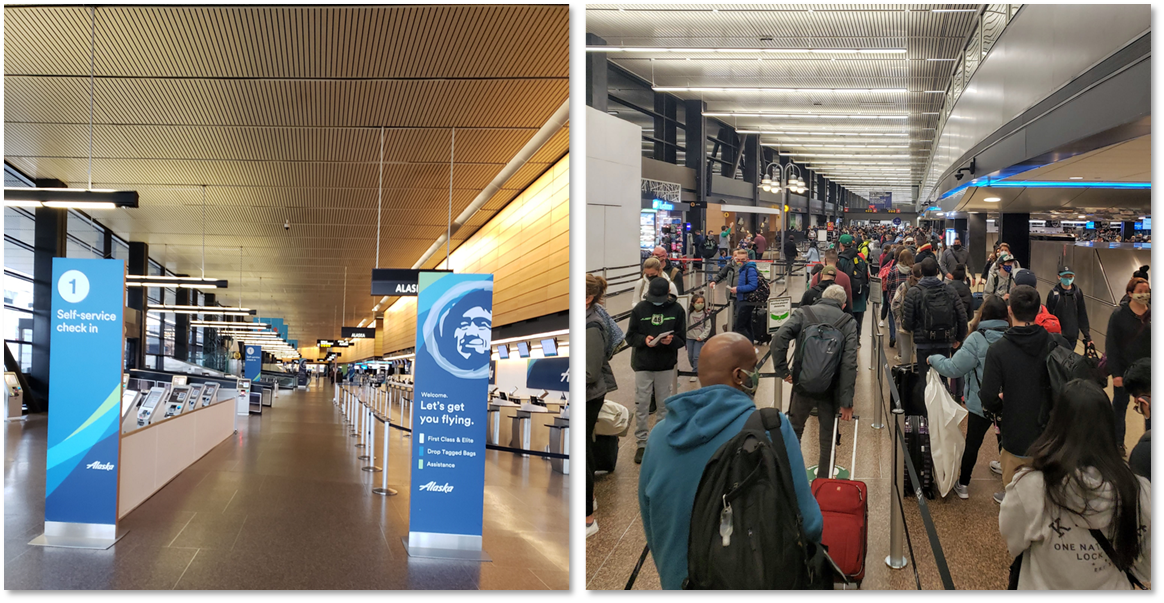
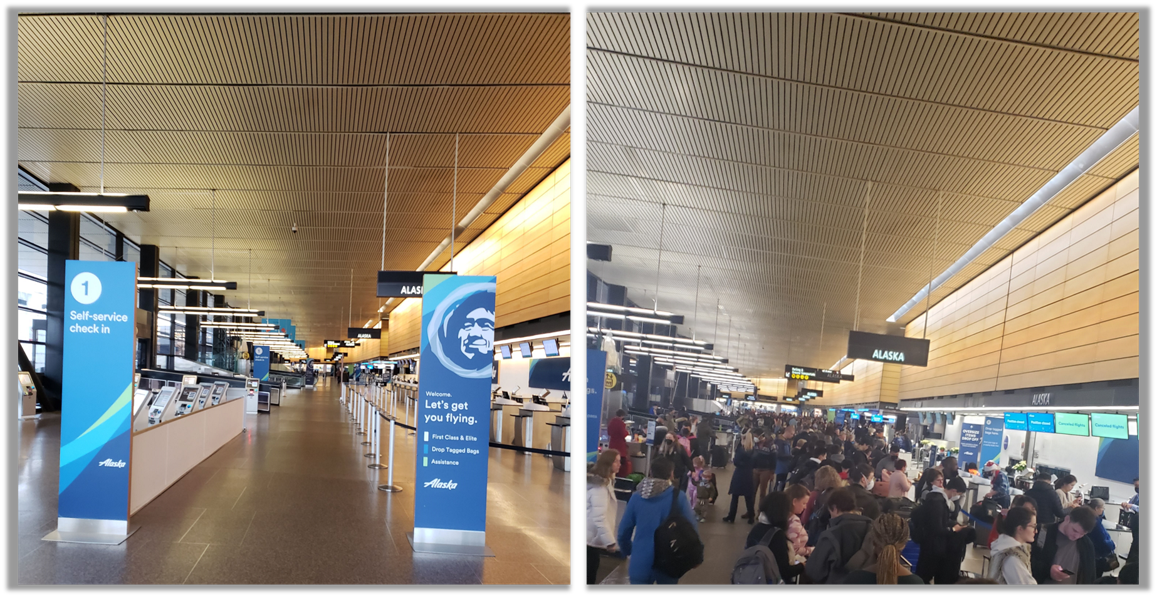
first draft of tsathroughput

diff --git a/_posts/2023-01-03-three-years-of-tsathroughput.md b/_posts/2023-01-03-three-years-of-tsathroughput.md
@@ -12,7 +12,22 @@ logo: assets/images/ghost.png
 author: mikelor
 ---
 
-From Adam's keynote, we learned that over 50K Customers and Partners are attending re:Invent this year, and boy does it feel like it. Even though I'm spending most of my time at the Wynn, I occasionally have to make a trek over to the Venetian for a keynote, or session. That's when the crush hits me, all of us crammed into corridors seemingly going every direction possible, except where I am going.
+The photos above were taken almost three years apart. Both are of the Alaska Airlines lobby in SEA. The left one is from my March 22, 2020 flight to LAS, I was just one of the 7,642 passengers to be screened by TSA in SEA that day, a far cry from the 55,933 passengers screened on the same day one year prior. The one on the right is from my most recent trip through SEA on Christmas Day 2022 when 44,527 passengers were screened by TSA. 
+
+
+How do I know this? Well, it turns out that the TSA publishes the number of passengers screened at all domestic airports on a regular basis. They make information available on their [Freedom of Information Act (FOIA) Reading Room website](https://www.tsa.gov/foia/readingroom). During the pandemic, as a sort of deranged therapy, I started tracking the TSA Throughput on a regular basis. This took a bit of work however, as the TSA only publishes their data in PDF format which makes it difficult to do any form of statistical analyis (more on this later).
+
+Let's take a look at small animation of TSA Throughput for the entire country during the height of the pandemic (it's pretty depressing).
+
+![TSA Throughput - All Airports](assets/images/travel/TsaThroughputAnimated.gif)
+
+It's not hard to figure out when COVID came in full force. We went from roughly 2M passengers being screened on a daily basis to less than 100K on April 8th, 2020.
+SEA would finally bottom out on April 8th, 2020 with just 2,564 passengers screened at all TSA checkpoints. Please note that this total does not include passengers who may be connecting in SEA as they usually do not need to go through TSA.
+
+
+12/23 - 27,245
+
+The graph below shows the number of passenger screened by TSA at SEA on a daily basis since January 1st, 2019. It shouldn't be hard to spot
 
 I wanted to capture all the big announcements from this keynote in one spot, plus add a little commentary and takeaways. In another post I'm cataloging all of the announcements by Area and Product. You can checkout what this looks like at the end of the post. 
 

diff --git a/_posts/2014-09-01-a-national-park-tour-around-the-grand-canyon.md b/_posts/2014-09-01-a-national-park-tour-around-the-grand-canyon.md
@@ -3,7 +3,7 @@ layout: post
 current: post
 cover: assets/images/travelogue/parktourcover.jpg
 navigation: True
-title: Three Years of TSA Throughput Data
+title: A National Park
 date: 2014-09-01 10:18:00
 tags: travelogue
 class: post-template
